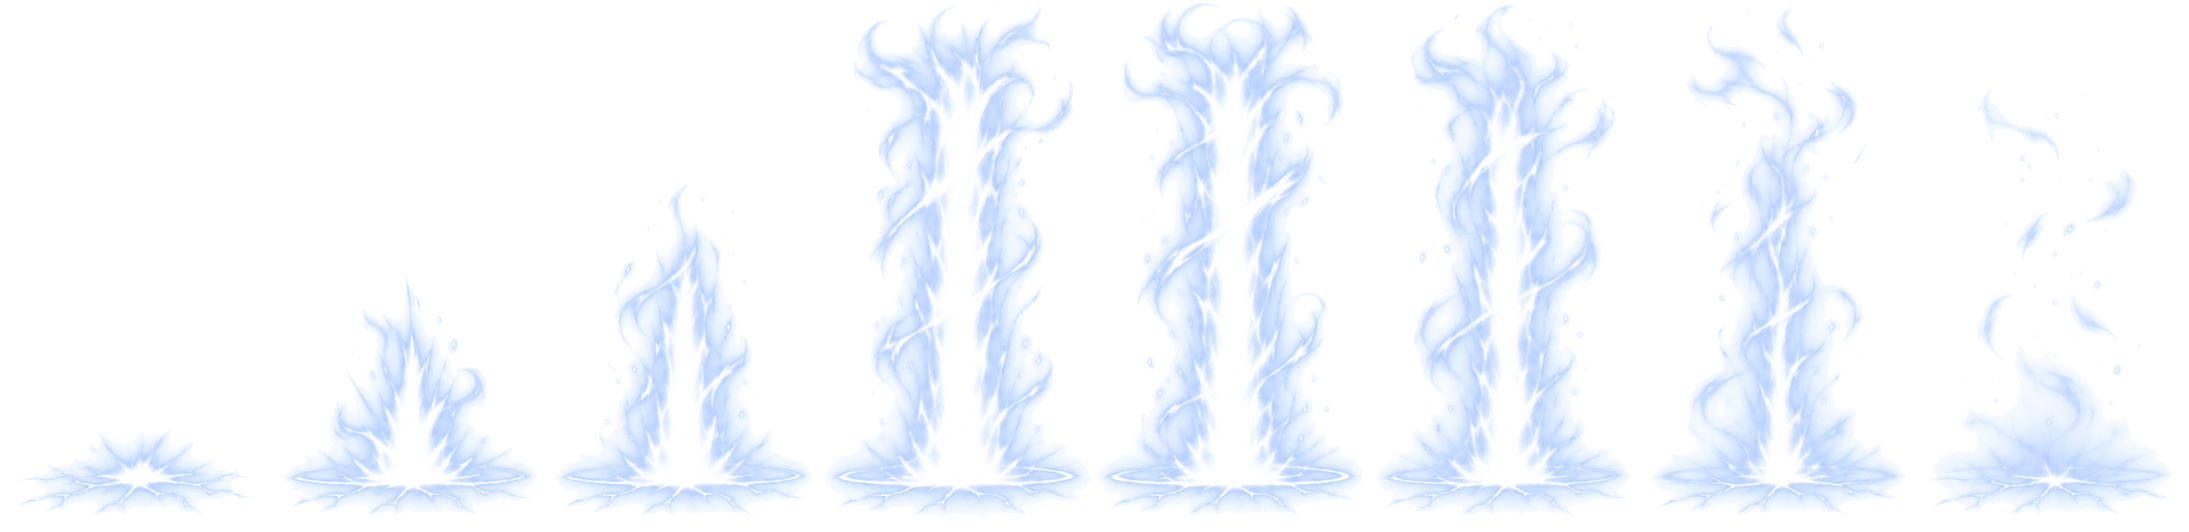
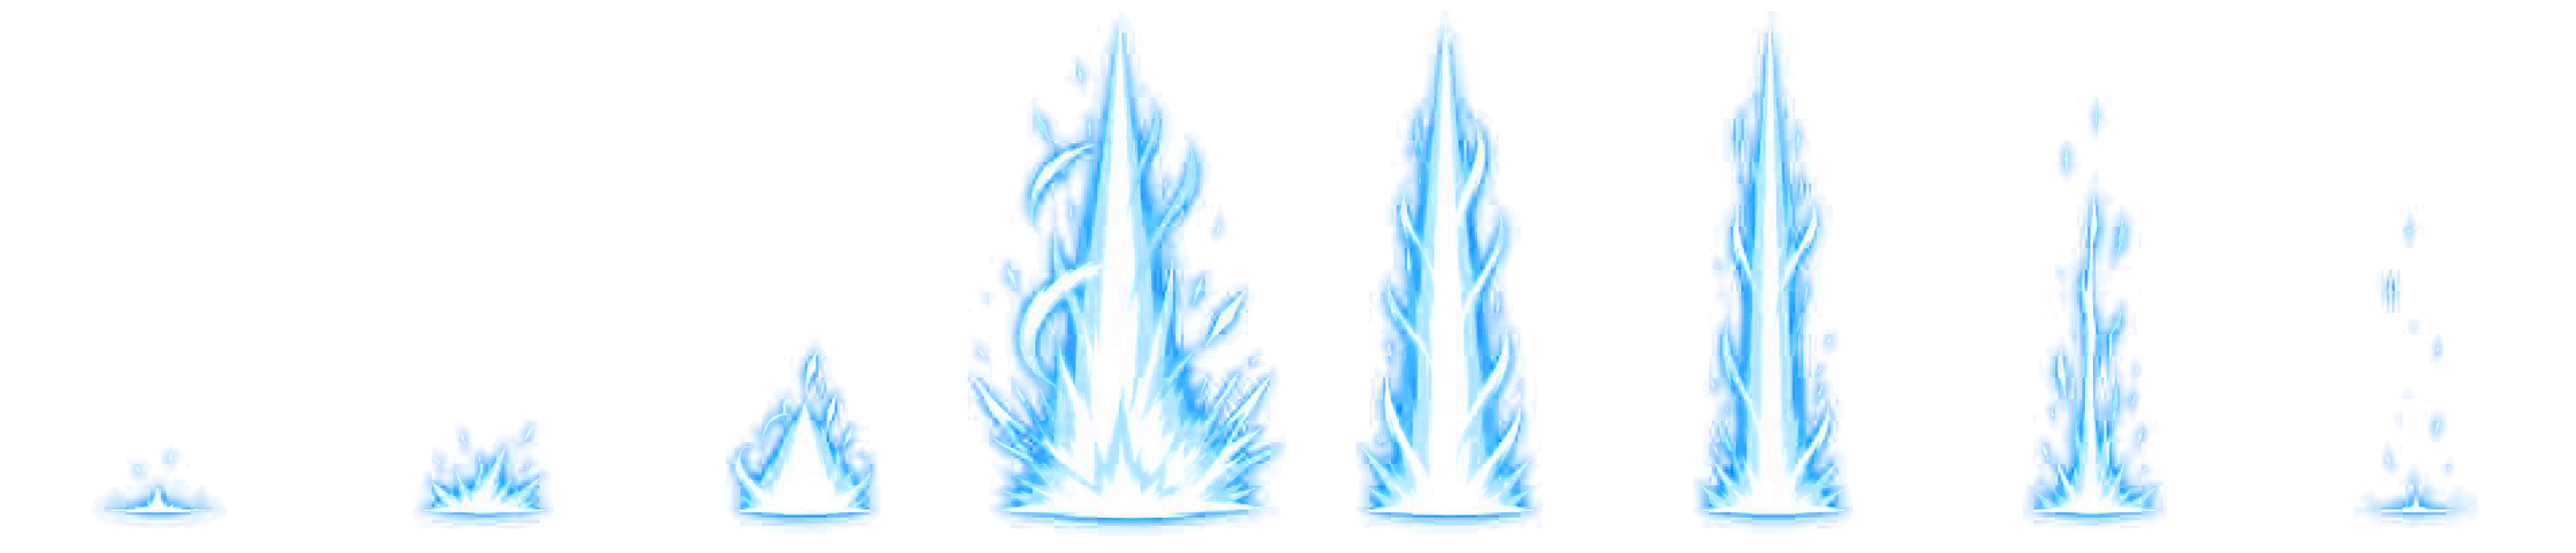
Malik: the new Resilience Pillar effect
The owner's replacement drawing (eight frames on black) is cut into
sheets/pillar-fx.png with its base on the floor. Timing and the hitbox are
unchanged. Includes the owner's latest Malik tuning.

Claude-Session: https://claude.ai/code/session_01XDQqBAyT34HEXnArFczUN3

diff --git a/CLAUDE.md b/CLAUDE.md
@@ -82,7 +82,7 @@ Current through **Phase 9** (all phases of the brief done), plus **Avner: Brand 
   size up, block row; additive). `collect` in fight-renderer.js pushes them from hit/counter/block cues; a move's
   own `hitFx` wins; the code-drawn sparks remain for clash, armor, throws, bounces and burst.
 - **Malik** (`data/characters/malik/`): second cast character, idle, walks, dashes (ground and air, both ways; air forward dash drawings 2 and 3 are tilted 8 degrees forward with `--tilt`), crouch, jump / fall / land, 5L, 5M (two hits), 5H, 2L, 2M, 2H, 5S (launcher, a rising kick; hit on drawing 3), Back Heavy (4H),
-  j.L, j.M, j.S (overhead axe kick, hit on drawing 4, ground bounce; its raw sheet came on a dark glowing background and was cut out by hand, not by `sprite-prep`), j.H (move `layers`: the `spiritHand` effect, synced so its drawing 4 shows on the hit frame; air attacks have their own `hitFx`), Spirit Orb (236 L / M / H: a melee hit, then `spawn`s projectile `spiritOrb` / `spiritOrbM` / `spiritOrbH`, each slower than the last; H slides back first) and Resilience Pillar (623 L / M / H: ground slam, `fx` `pillar` in front, launches; M has only a lower-body hurtbox until the pillar is gone). All art cut to one body size (186 px tall standing; two-row sheets are laid into one strip first; air attack sheets realigned on the torso). Running Lariat (`lariatL/M/H`, 214; owner Nov 23; report `docs/reports/malik-lariat.md`, tests `tests/malik-lariat.test.js`): timeline `vel` runs him forward from frame 3 until the swing, farther by button; `ex` adds `{ from, to, armor: 1 }`; plain per-drawing holds so the TIMING editor can retime it. Numbers are a first pass copied from Avner; default stats; blocks, hit reactions (standing shows drawing 1 for every hit until per-strength reactions exist in the engine; crouching is one drawing; air uses drawn frames 1, 2 then 4, 5 as the tumble), knockdown and get-up are in; no art for throws, techs or burst. Super: Spirit Install (`22HS`, level 1: one bar): mechanic var `install` (600 frames) with drawing-only `aura` (guardian + lights behind, flames + lights in front) and `art` (idle swapped for the white-haired `installIdle`); no gameplay effect yet.
+  j.L, j.M, j.S (overhead axe kick, hit on drawing 4, ground bounce; its raw sheet came on a dark glowing background and was cut out by hand, not by `sprite-prep`), j.H (move `layers`: the `spiritHand` effect, synced so its drawing 4 shows on the hit frame; air attacks have their own `hitFx`), Spirit Orb (236 L / M / H: a melee hit, then `spawn`s projectile `spiritOrb` / `spiritOrbM` / `spiritOrbH`, each slower than the last; H slides back first) and Resilience Pillar (623 L / M / H: ground slam, `fx` `pillar` in front, launches; M has only a lower-body hurtbox until the pillar is gone). All art cut to one body size (186 px tall standing; two-row sheets are laid into one strip first; air attack sheets realigned on the torso). The pillar effect sheet was replaced Nov 23 (the owner's new drawing is a JPEG named .png with drawings off-grid: convert with ffmpeg, lay them on an even grid, then `sprite-prep --grid 8x1 --size 331 --key black --center cell`; effect `at` puts its base on the floor). Running Lariat (`lariatL/M/H`, 214; owner Nov 23; report `docs/reports/malik-lariat.md`, tests `tests/malik-lariat.test.js`): timeline `vel` runs him forward from frame 3 until the swing, farther by button; `ex` adds `{ from, to, armor: 1 }`; plain per-drawing holds so the TIMING editor can retime it. Numbers are a first pass copied from Avner; default stats; blocks, hit reactions (standing shows drawing 1 for every hit until per-strength reactions exist in the engine; crouching is one drawing; air uses drawn frames 1, 2 then 4, 5 as the tumble), knockdown and get-up are in; no art for throws, techs or burst. Super: Spirit Install (`22HS`, level 1: one bar): mechanic var `install` (600 frames) with drawing-only `aura` (guardian + lights behind, flames + lights in front) and `art` (idle swapped for the white-haired `installIdle`); no gameplay effect yet.
 - **Box editor** (title menu, dev server only; `?mode=editor&move=5H&frame=8`): `src/ui/screens/box-editor.js`
   (screen, mouse), `src/editor/box-model.js` (pure: which place in the Toska file a frame's hurt / hit boxes come
   from, mirroring `compileState`; edits; `diffOps`), `scripts/json-edit.mjs` (changes values inside the file's
